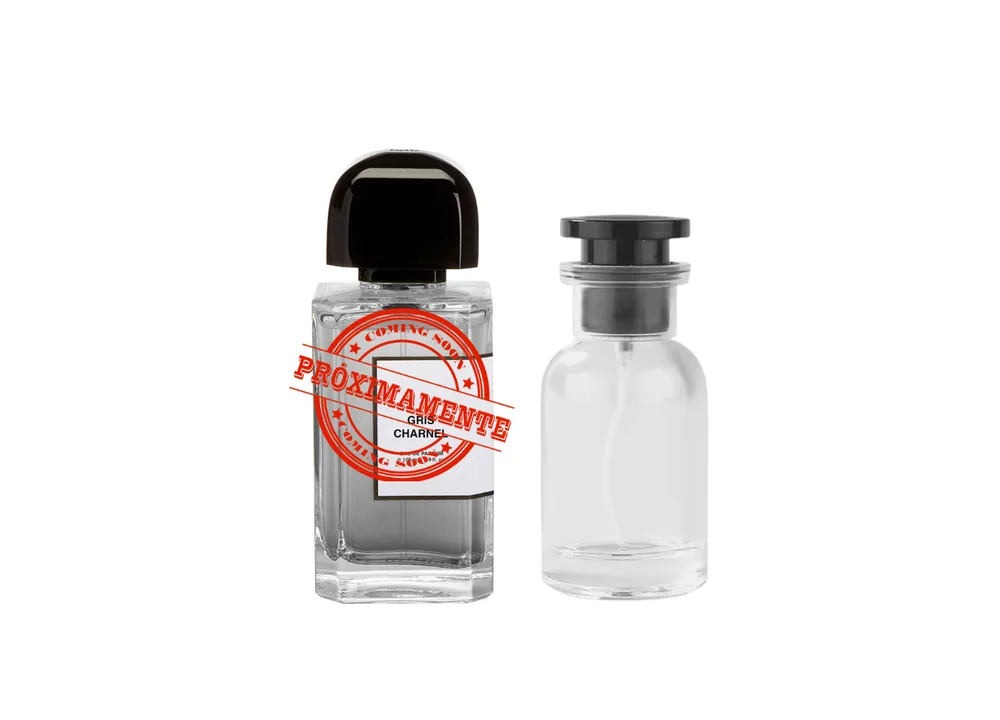
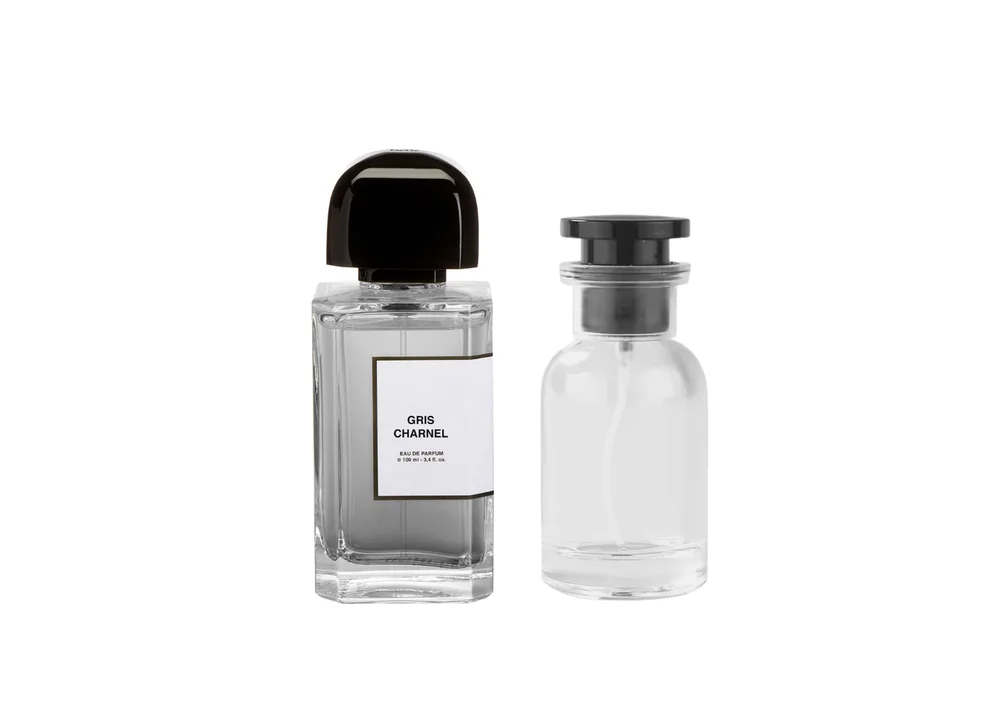
fix: update Gris Charnel EDP product photo
Regenerates the optimized images for Gris Charnel EDP (id 81) from the
new clean source photo in img/perfumes (gitignored raw original),
using the project's existing sharp pipeline settings (1000px width,
q82 webp). This was the last of the four products marked available
last session that still showed the old baked-in "PRÓXIMAMENTE" stamp.

Confirmed the source is the BDK Parfums EDP bottle (clear glass, "EAU
DE PARFUM" label), not the Extrait (id 82, smoky/brown bottle) — the
two must not be confused.

Bumps the service worker VERSION again so the stale-while-revalidate
image cache is invalidated for this photo.

Changed region(s): [[0.279, 0.4278, 0.527, 0.6722]]

diff --git a/sw.js b/sw.js
@@ -7,7 +7,7 @@
  * DEBE bumpear VERSION o los clientes se quedan con código viejo.
  */
 const RELEASE = "20260917";
-const VERSION = "fo-v80-clean-product-photos";
+const VERSION = "fo-v81-gris-charnel-edp-photo";
 const CORE_CACHE = `core-${VERSION}`;
 const IMG_CACHE = `img-${VERSION}`;
 const FONT_CACHE = `font-${VERSION}`;
